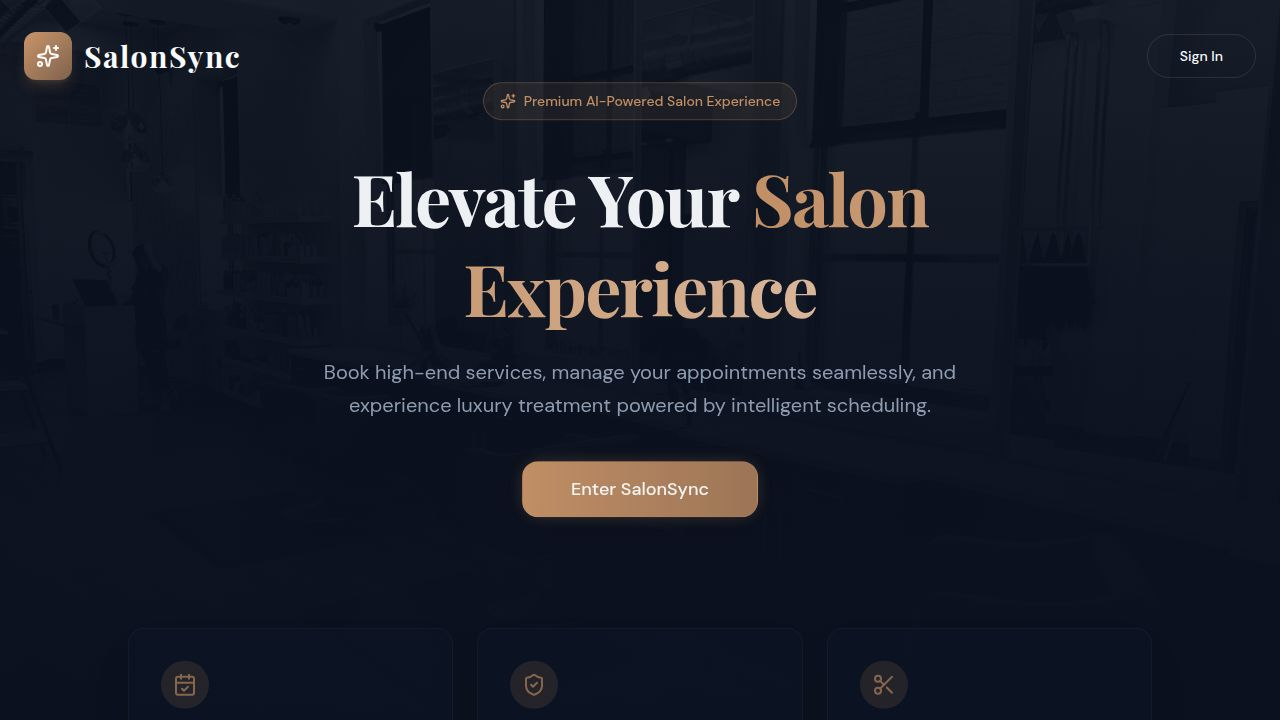
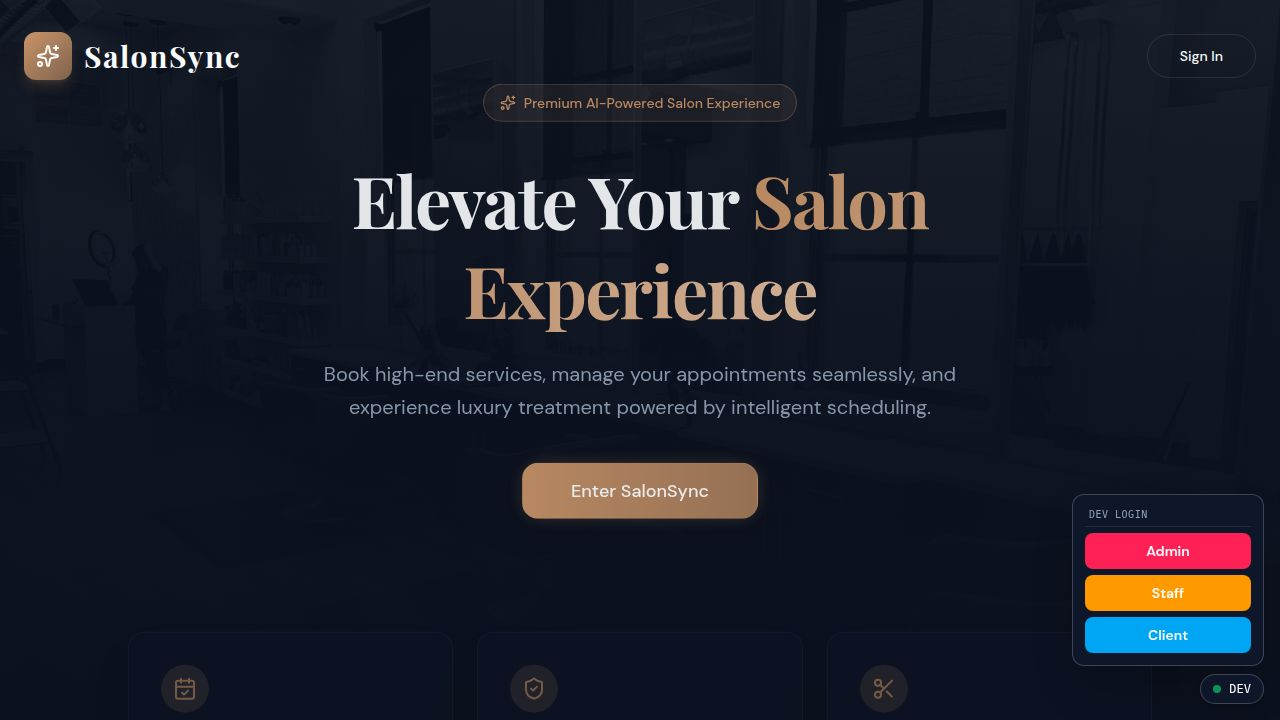
Improve authentication flow for iframe environments
Fix an issue with React Hooks order during hot module replacement by refactoring the authentication logic and utilizing useRef to manage asynchronous operations, ensuring stable behavior after a full page reload.

Replit-Commit-Author: Agent
Replit-Commit-Session-Id: 800b1429-e914-4b1b-abbd-9b10ed0094bb
Replit-Commit-Checkpoint-Type: full_checkpoint
Replit-Commit-Event-Id: bffb08c3-0a07-4a2a-815b-2c5a4420d04e
Replit-Commit-Screenshot-Url: https://storage.googleapis.com/screenshot-production-us-central1/ce7af3f0-8b4d-4c4c-8bc4-dc2fd17c655f/800b1429-e914-4b1b-abbd-9b10ed0094bb/NbBUXVa
Replit-Helium-Checkpoint-Created: true

diff --git a/lib/replit-auth-web/src/use-auth.ts b/lib/replit-auth-web/src/use-auth.ts
@@ -1,7 +1,9 @@
-import { useState, useEffect, useCallback } from "react";
+import { useState, useEffect, useCallback, useRef } from "react";
 import type { AuthUser } from "@workspace/api-client-react";
 
 export type { AuthUser };
+
+export const DEV_AUTH_EVENT = "__salonsync_dev_auth__";
 
 interface AuthState {
   user: AuthUser | null;
@@ -11,32 +13,39 @@ interface AuthState {
   logout: () => void;
 }
 
-export const DEV_AUTH_EVENT = "__salonsync_dev_auth__";
-
 export function useAuth(): AuthState {
   const [user, setUser] = useState<AuthUser | null>(null);
   const [isLoading, setIsLoading] = useState(true);
+  const cancelledRef = useRef(false);
 
-  const fetchUser = useCallback(() => {
+  // Initial fetch of the authenticated user from the server
+  useEffect(() => {
+    cancelledRef.current = false;
+
     fetch("/api/auth/user", { credentials: "include" })
       .then((res) => {
         if (!res.ok) throw new Error(`HTTP ${res.status}`);
         return res.json() as Promise<{ user: AuthUser | null }>;
       })
       .then((data) => {
-        setUser(data.user ?? null);
-        setIsLoading(false);
+        if (!cancelledRef.current) {
+          setUser(data.user ?? null);
+          setIsLoading(false);
+        }
       })
       .catch(() => {
-        setUser(null);
-        setIsLoading(false);
+        if (!cancelledRef.current) {
+          setUser(null);
+          setIsLoading(false);
+        }
       });
+
+    return () => {
+      cancelledRef.current = true;
+    };
   }, []);
 
-  useEffect(() => {
-    fetchUser();
-  }, [fetchUser]);
-
+  // Dev-only: listen for instant auth injection (bypasses page reload in iframe)
   useEffect(() => {
     const handler = (e: Event) => {
       const { user: devUser } = (e as CustomEvent<{ user: AuthUser }>).detail;
